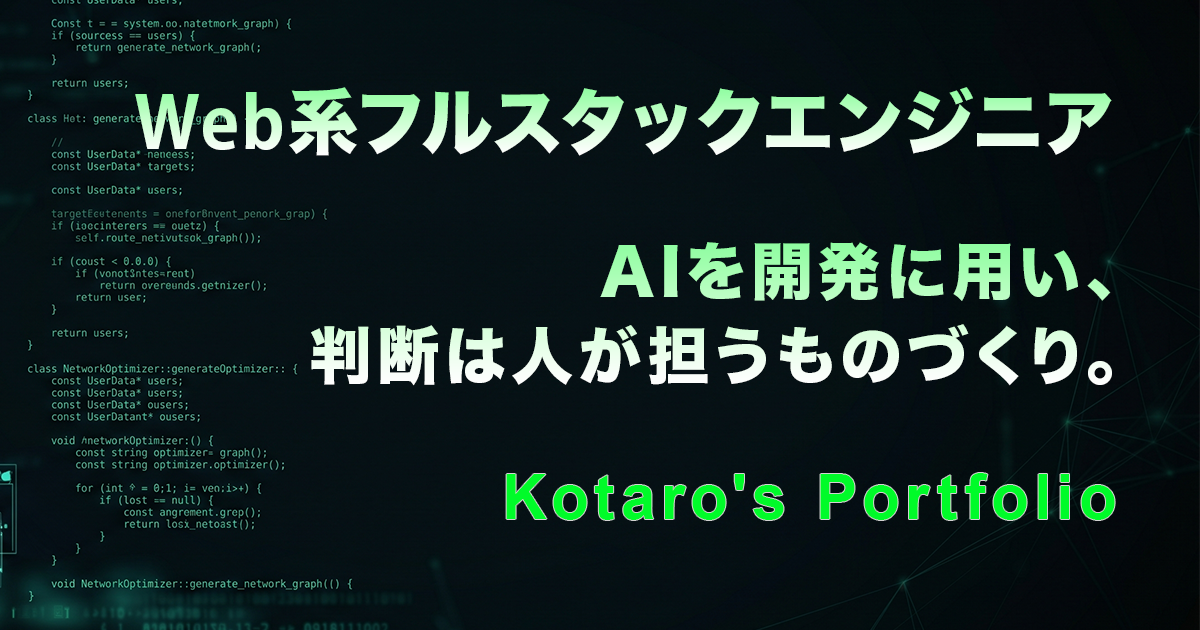
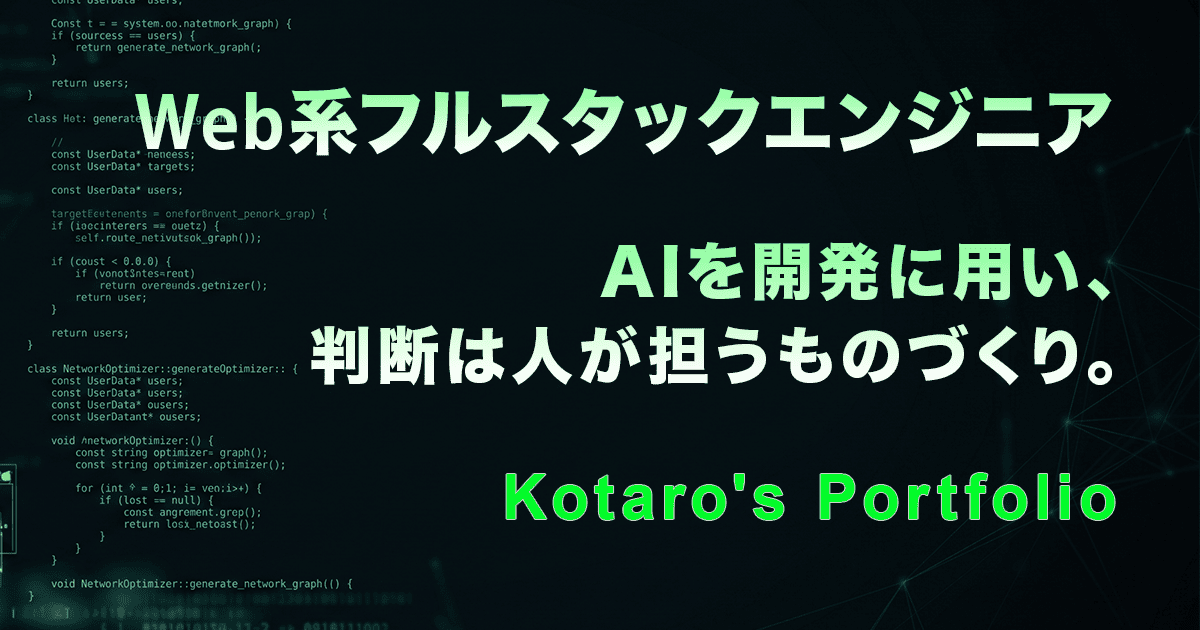
ci: メタ情報の検証を自動化しOG画像を最適化する (7-2)

Changed region(s): [[0.1233, 0.9952, 0.1542, 1.0], [0.0308, 0.9651, 0.0617, 0.9952]]

diff --git a/resources/js/Pages/ErrorPage.tsx b/resources/js/Pages/ErrorPage.tsx
@@ -5,7 +5,9 @@
 import PageMeta from '@/Components/PageMeta';
 import { Link } from '@inertiajs/react';
 
-type Props = { status: number };
+// titleSuffixはbootstrap/app.phpがPageMetaBuilder::titleSuffix()で組み立てて渡す
+// （区切り文字・サイト名の定義はconfig('page_meta.site_name')の1箇所のまま。ここでは結合するだけ）
+type Props = { status: number; titleSuffix: string };
 
 type StatusContent = { exceptionName: string; comment: string; title: string; description: string };
 
@@ -45,12 +47,12 @@ const FALLBACK_CONTENT: StatusContent = {
   description: '予期しないエラーが発生しました。しばらくしてから再度お試しください。',
 };
 
-export default function ErrorPage({ status }: Props) {
+export default function ErrorPage({ status, titleSuffix }: Props) {
   const { exceptionName, comment, title } = STATUS_CONTENT[status] ?? FALLBACK_CONTENT;
 
   return (
     <div className="flex flex-col items-center text-center py-24 md:py-32 lg:py-40 font-mono">
-      <PageMeta title={title} />
+      <PageMeta title={`${title}${titleSuffix}`} />
       {/* 数字：ページの主役。見せ場なのでlgまで段階調整する（app.cssのlg基準を参照） */}
       <p className="text-7xl md:text-8xl lg:text-9xl font-bold text-primary mb-8">{status}</p>
 

diff --git a/tests/Feature/PageMetaTest.php b/tests/Feature/PageMetaTest.php
@@ -1,0 +1,222 @@
+<?php
+
+declare(strict_types=1);
+
+namespace Tests\Feature;
+
+use App\Services\ContentRepository;
+use Tests\TestCase;
+
+/**
+ * サーバーサイドで出力するmeta情報（title/description/OGP/Twitter Card）の検証（7-2）。
+ *
+ * 固定文言（Home/Works一覧/Contact/Aboutのtitle）はconfig('page_meta')から取得した値と比較する。
+ * 動的ページ（作品詳細・ログ詳細・Aboutのdescription）は、7-6で実コンテンツに差し替わるため
+ * 文言そのものは検証せず、meta要素の存在・空でないこと・絶対URL形式であること等の
+ * 構造のみを検証する。
+ *
+ * ErrorPage（404等）はbootstrap/app.phpのrespondでlocal/testing環境が除外されるため、
+ * テスト環境ではカスタムErrorPageを描画できない。bootstrap/app.phpの環境判定を
+ * 迂回するテストは意図的に書かない（このファイルにErrorPageのテストが無いのはそのため）。
+ */
+class PageMetaTest extends TestCase
+{
+    /** <title>〜</title>の中身を取り出す */
+    private function extractTitle(string $html): ?string
+    {
+        if (! preg_match('/<title>(.*?)<\/title>/s', $html, $m)) {
+            return null;
+        }
+
+        return $m[1];
+    }
+
+    /** <meta {$attr}="{$value}" content="..."> のcontentを取り出す */
+    private function extractMeta(string $html, string $attr, string $value): ?string
+    {
+        $pattern = '/<meta\s+'.$attr.'="'.preg_quote($value, '/').'"\s+content="([^"]*)"/';
+        if (! preg_match($pattern, $html, $m)) {
+            return null;
+        }
+
+        return $m[1];
+    }
+
+    /**
+     * 全ページ共通の構造的な検証（存在・空でないこと・title=og:title一致・絶対URL形式・og:type）。
+     * 文言の中身までは見ない（文言の検証は呼び出し側で個別に行う）。
+     */
+    private function assertMetaStructure(string $html, string $expectedOgType): void
+    {
+        $title = $this->extractTitle($html);
+        $this->assertNotEmpty($title, '<title>が存在しないか空');
+
+        $description = $this->extractMeta($html, 'name', 'description');
+        $this->assertNotEmpty($description, 'meta[name=description]が存在しないか空');
+
+        $ogTitle = $this->extractMeta($html, 'property', 'og:title');
+        $ogDescription = $this->extractMeta($html, 'property', 'og:description');
+        $ogType = $this->extractMeta($html, 'property', 'og:type');
+        $ogUrl = $this->extractMeta($html, 'property', 'og:url');
+        $ogImage = $this->extractMeta($html, 'property', 'og:image');
+
+        $this->assertNotEmpty($ogTitle, 'og:titleが存在しないか空');
+        $this->assertNotEmpty($ogDescription, 'og:descriptionが存在しないか空');
+        $this->assertNotEmpty($ogType, 'og:typeが存在しないか空');
+        $this->assertNotEmpty($ogUrl, 'og:urlが存在しないか空');
+        $this->assertNotEmpty($ogImage, 'og:imageが存在しないか空');
+
+        $twitterCard = $this->extractMeta($html, 'name', 'twitter:card');
+        $twitterTitle = $this->extractMeta($html, 'name', 'twitter:title');
+        $twitterDescription = $this->extractMeta($html, 'name', 'twitter:description');
+        $twitterImage = $this->extractMeta($html, 'name', 'twitter:image');
+
+        $this->assertNotEmpty($twitterCard, 'twitter:cardが存在しないか空');
+        $this->assertNotEmpty($twitterTitle, 'twitter:titleが存在しないか空');
+        $this->assertNotEmpty($twitterDescription, 'twitter:descriptionが存在しないか空');
+        $this->assertNotEmpty($twitterImage, 'twitter:imageが存在しないか空');
+
+        $this->assertSame($title, $ogTitle, '<title>とog:titleが一致しない');
+
+        $appUrl = rtrim((string) config('app.url'), '/');
+        $this->assertStringStartsWith($appUrl, (string) $ogUrl, 'og:urlがconfig(app.url)基点の絶対URLになっていない');
+        $this->assertMatchesRegularExpression('#^https?://#', (string) $ogImage, 'og:imageが絶対URLになっていない');
+
+        $this->assertSame($expectedOgType, $ogType);
+    }
+
+    /** config('page_meta.site_name')を使い、PageMetaBuilderと同じ規則で完成形タイトルを組み立てる */
+    private function expectedFullTitle(?string $title): string
+    {
+        $siteName = (string) config('page_meta.site_name');
+
+        return $title ? "{$title} — {$siteName}" : $siteName;
+    }
+
+    public function test_home_page_has_required_meta_tags(): void
+    {
+        $response = $this->get('/');
+        $response->assertOk();
+        $html = (string) $response->getContent();
+
+        $this->assertMetaStructure($html, 'website');
+
+        // Home/Works一覧/Contactは固定文言なので、config('page_meta')の値と比較する
+        $pages = config('page_meta.pages');
+        $this->assertSame($this->expectedFullTitle($pages['home']['title']), $this->extractTitle($html));
+        $this->assertSame($pages['home']['description'], $this->extractMeta($html, 'name', 'description'));
+    }
+
+    public function test_works_index_page_has_required_meta_tags(): void
+    {
+        $response = $this->get('/works');
+        $response->assertOk();
+        $html = (string) $response->getContent();
+
+        $this->assertMetaStructure($html, 'website');
+
+        $pages = config('page_meta.pages');
+        $this->assertSame($this->expectedFullTitle($pages['works.index']['title']), $this->extractTitle($html));
+        $this->assertSame($pages['works.index']['description'], $this->extractMeta($html, 'name', 'description'));
+    }
+
+    public function test_works_show_page_has_required_meta_tags(): void
+    {
+        // 作品詳細はtitle/description/ogImageがすべてfrontmatter由来の動的値（7-6で実コンテンツに
+        // 差し替わる）。文言そのものは検証せず、構造のみを検証する。
+        $response = $this->get('/works/portfolio-engineer');
+        $response->assertOk();
+        $html = (string) $response->getContent();
+
+        $this->assertMetaStructure($html, 'article');
+    }
+
+    public function test_logs_show_page_has_required_meta_tags(): void
+    {
+        // ログ詳細も同様に、title/description/ogImageが動的値。構造のみを検証する。
+        $response = $this->get('/logs/portfolio-engineer');
+        $response->assertOk();
+        $html = (string) $response->getContent();
+
+        $this->assertMetaStructure($html, 'article');
+    }
+
+    public function test_about_page_has_required_meta_tags(): void
+    {
+        $response = $this->get('/about');
+        $response->assertOk();
+        $html = (string) $response->getContent();
+
+        $this->assertMetaStructure($html, 'website');
+
+        // Aboutのtitleは固定（config）だが、descriptionはcontent/about.mdのtitle（肩書き）フィールド
+        // 由来の動的値のため、titleのみconfigの値と比較し、descriptionは文言を検証しない。
+        $pages = config('page_meta.pages');
+        $this->assertSame($this->expectedFullTitle($pages['about']['title']), $this->extractTitle($html));
+    }
+
+    public function test_contact_page_has_required_meta_tags(): void
+    {
+        $response = $this->get('/contact');
+        $response->assertOk();
+        $html = (string) $response->getContent();
+
+        $this->assertMetaStructure($html, 'website');
+
+        $pages = config('page_meta.pages');
+        $this->assertSame($this->expectedFullTitle($pages['contact']['title']), $this->extractTitle($html));
+        $this->assertSame($pages['contact']['description'], $this->extractMeta($html, 'name', 'description'));
+    }
+
+    /**
+     * og:imageの絶対URLからconfig('app.url')を取り除いたパスが、実際にpublic/配下に
+     * 存在することを検証する。パス文字列の一致だけでは、ファイルの移動・改名・
+     * パイプライン変更で壊れたことを検出できないため（SNSでシェアするまで404に気づけない事故を防ぐ）。
+     */
+    private function assertOgImageFileExists(string $html, string $context): void
+    {
+        $ogImage = $this->extractMeta($html, 'property', 'og:image');
+        $this->assertNotNull($ogImage, "{$context}: og:imageが見つからない");
+
+        $appUrl = rtrim((string) config('app.url'), '/');
+        $this->assertStringStartsWith($appUrl, (string) $ogImage, "{$context}: og:imageが絶対URLになっていない");
+
+        $relativePath = substr((string) $ogImage, strlen($appUrl));
+        $filePath = public_path(ltrim($relativePath, '/'));
+
+        $this->assertFileExists($filePath, "{$context}: og:imageの実ファイルが存在しない（{$filePath}）");
+    }
+
+    public function test_og_image_file_exists_for_static_pages(): void
+    {
+        foreach (['/' => 'home', '/works' => 'works.index', '/about' => 'about', '/contact' => 'contact'] as $path => $label) {
+            $response = $this->get($path);
+            $response->assertOk();
+            $this->assertOgImageFileExists((string) $response->getContent(), $label);
+        }
+    }
+
+    public function test_og_image_file_exists_for_all_published_works(): void
+    {
+        $works = app(ContentRepository::class)->listPublishedWorks();
+        $this->assertNotEmpty($works, '公開中の作品が1件も無い（テストの前提が崩れている）');
+
+        foreach ($works as $work) {
+            $response = $this->get("/works/{$work['slug']}");
+            $response->assertOk();
+            $this->assertOgImageFileExists((string) $response->getContent(), "works/{$work['slug']}");
+        }
+    }
+
+    public function test_og_image_file_exists_for_all_published_logs(): void
+    {
+        $logs = app(ContentRepository::class)->listPublishedLogs();
+        $this->assertNotEmpty($logs, '公開中のログが1件も無い（テストの前提が崩れている）');
+
+        foreach ($logs as $log) {
+            $response = $this->get("/logs/{$log['slug']}");
+            $response->assertOk();
+            $this->assertOgImageFileExists((string) $response->getContent(), "logs/{$log['slug']}");
+        }
+    }
+}

diff --git a/bootstrap/app.php b/bootstrap/app.php
@@ -51,9 +51,17 @@ return Application::configure(basePath: dirname(__DIR__))
             // ステータス別の出し分けはしない（config('page_meta.pages.error')の固定文言を使う）。
             // 初回HTML（Blade出力）は固定タイトルだが、JS実行後はReact側のSTATUS_CONTENTにより
             // ステータス別タイトルへ切り替わる（Inertiaがdata-inertia無しのtitleを削除するため。意図した挙動）。
-            $meta = app(PageMetaBuilder::class)->build('error');
+            $pageMetaBuilder = app(PageMetaBuilder::class);
+            $meta = $pageMetaBuilder->build('error');
 
-            return Inertia::render('ErrorPage', ['status' => $statusCode])
+            // titleSuffix：JS実行後、React側（ErrorPage.tsx）がSTATUS_CONTENTのtitleと結合し
+            // 「ページが見つかりません — Kotaro」のようにサイト名サフィックス付きにするために渡す。
+            // 区切り文字・サイト名の定義はconfig('page_meta.site_name')の1箇所のまま
+            // （結合処理だけがBlade側とReact側の2箇所に存在する）。
+            return Inertia::render('ErrorPage', [
+                'status' => $statusCode,
+                'titleSuffix' => $pageMetaBuilder->titleSuffix(),
+            ])
                 ->withViewData(['pageMeta' => $meta])
                 ->toResponse($request)
                 ->setStatusCode($statusCode);

diff --git a/config/page_meta.php b/config/page_meta.php
@@ -31,6 +31,15 @@ return [
     | title => null は「サフィックスを付けずサイト名のみを表示する」という意図的な指定。
     | works.show / logs.show のようにdescriptionが常にfrontmatter由来の動的値になる
     | ページは、ここに固定文言を持たない（Controller側でoverridesとして渡す）。
+    |
+    | 【注意：ドット記法の罠】キーには 'works.index' のようにドットを含むものがある。
+    | config('page_meta.pages.works.index') のようにドット記法で個別キーを直接引いては
+    | ならない。Laravelがpages→works→indexと階層探索してしまい、'works.index'という
+    | 単一キーとは一致しない（意図せずnull/空にフォールバックする。前半の実装中に実際に
+    | 発生し修正済み）。必ずconfig('page_meta.pages')でpages配列をまるごと取得してから、
+    | 通常の配列アクセス（$pages['works.index']）でリテラルなキーとして引くこと。
+    | このconfigの読み出しはapp/Services/PageMetaBuilder.phpに集約されており、
+    | 他の場所（Controller等）から直接configを引かない設計になっている。
     */
     'pages' => [
         'home' => [

diff --git a/app/Services/PageMetaBuilder.php b/app/Services/PageMetaBuilder.php
@@ -60,7 +60,17 @@ class PageMetaBuilder
     {
         $siteName = (string) config('page_meta.site_name');
 
-        return $title ? "{$title} — {$siteName}" : $siteName;
+        return $title ? $title.$this->titleSuffix() : $siteName;
+    }
+
+    /**
+     * サイト名サフィックス（区切り文字＋サイト名）。
+     * ErrorPage.tsx がJS実行後にReact側（STATUS_CONTENT）のtitleと結合するために公開する
+     * （7-2後半）。区切り文字をTS側で新たに定義させないため、ここで組み立てた文字列をそのまま渡す。
+     */
+    public function titleSuffix(): string
+    {
+        return ' — '.(string) config('page_meta.site_name');
     }
 
     /** 相対パスをconfig('app.url')基点の絶対URLにする。既に絶対URL（http(s)://〜）ならそのまま返す */
